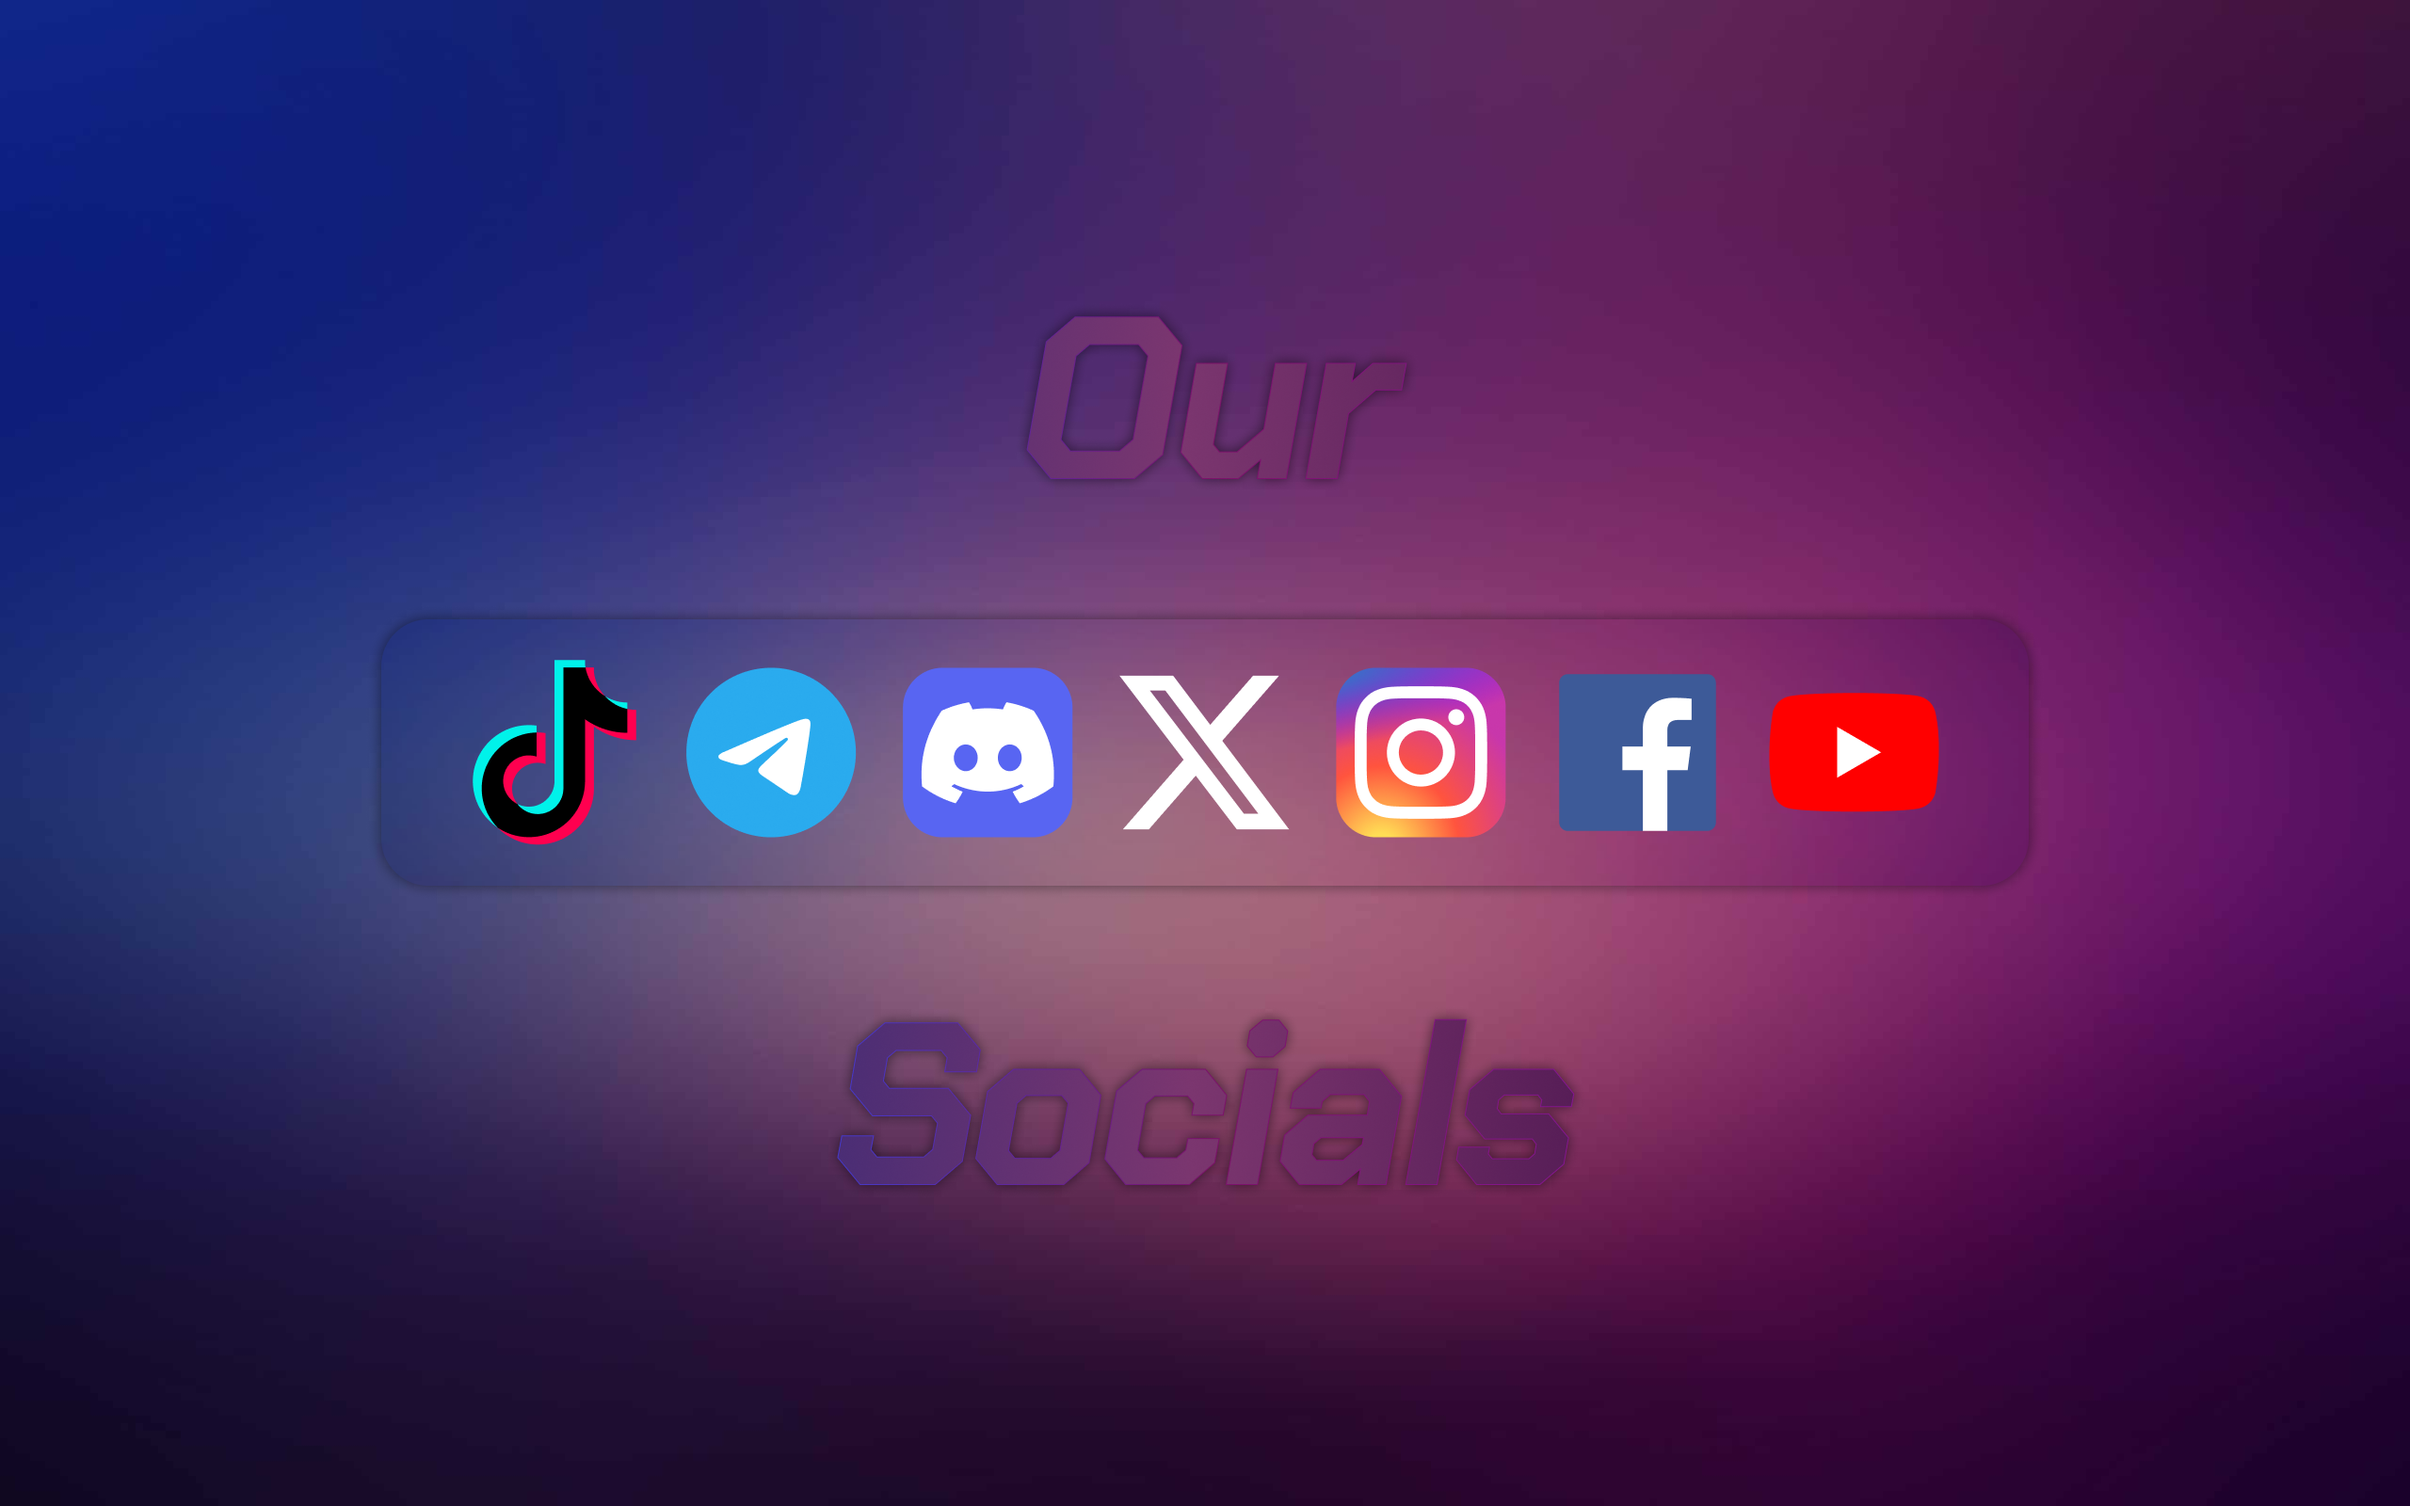
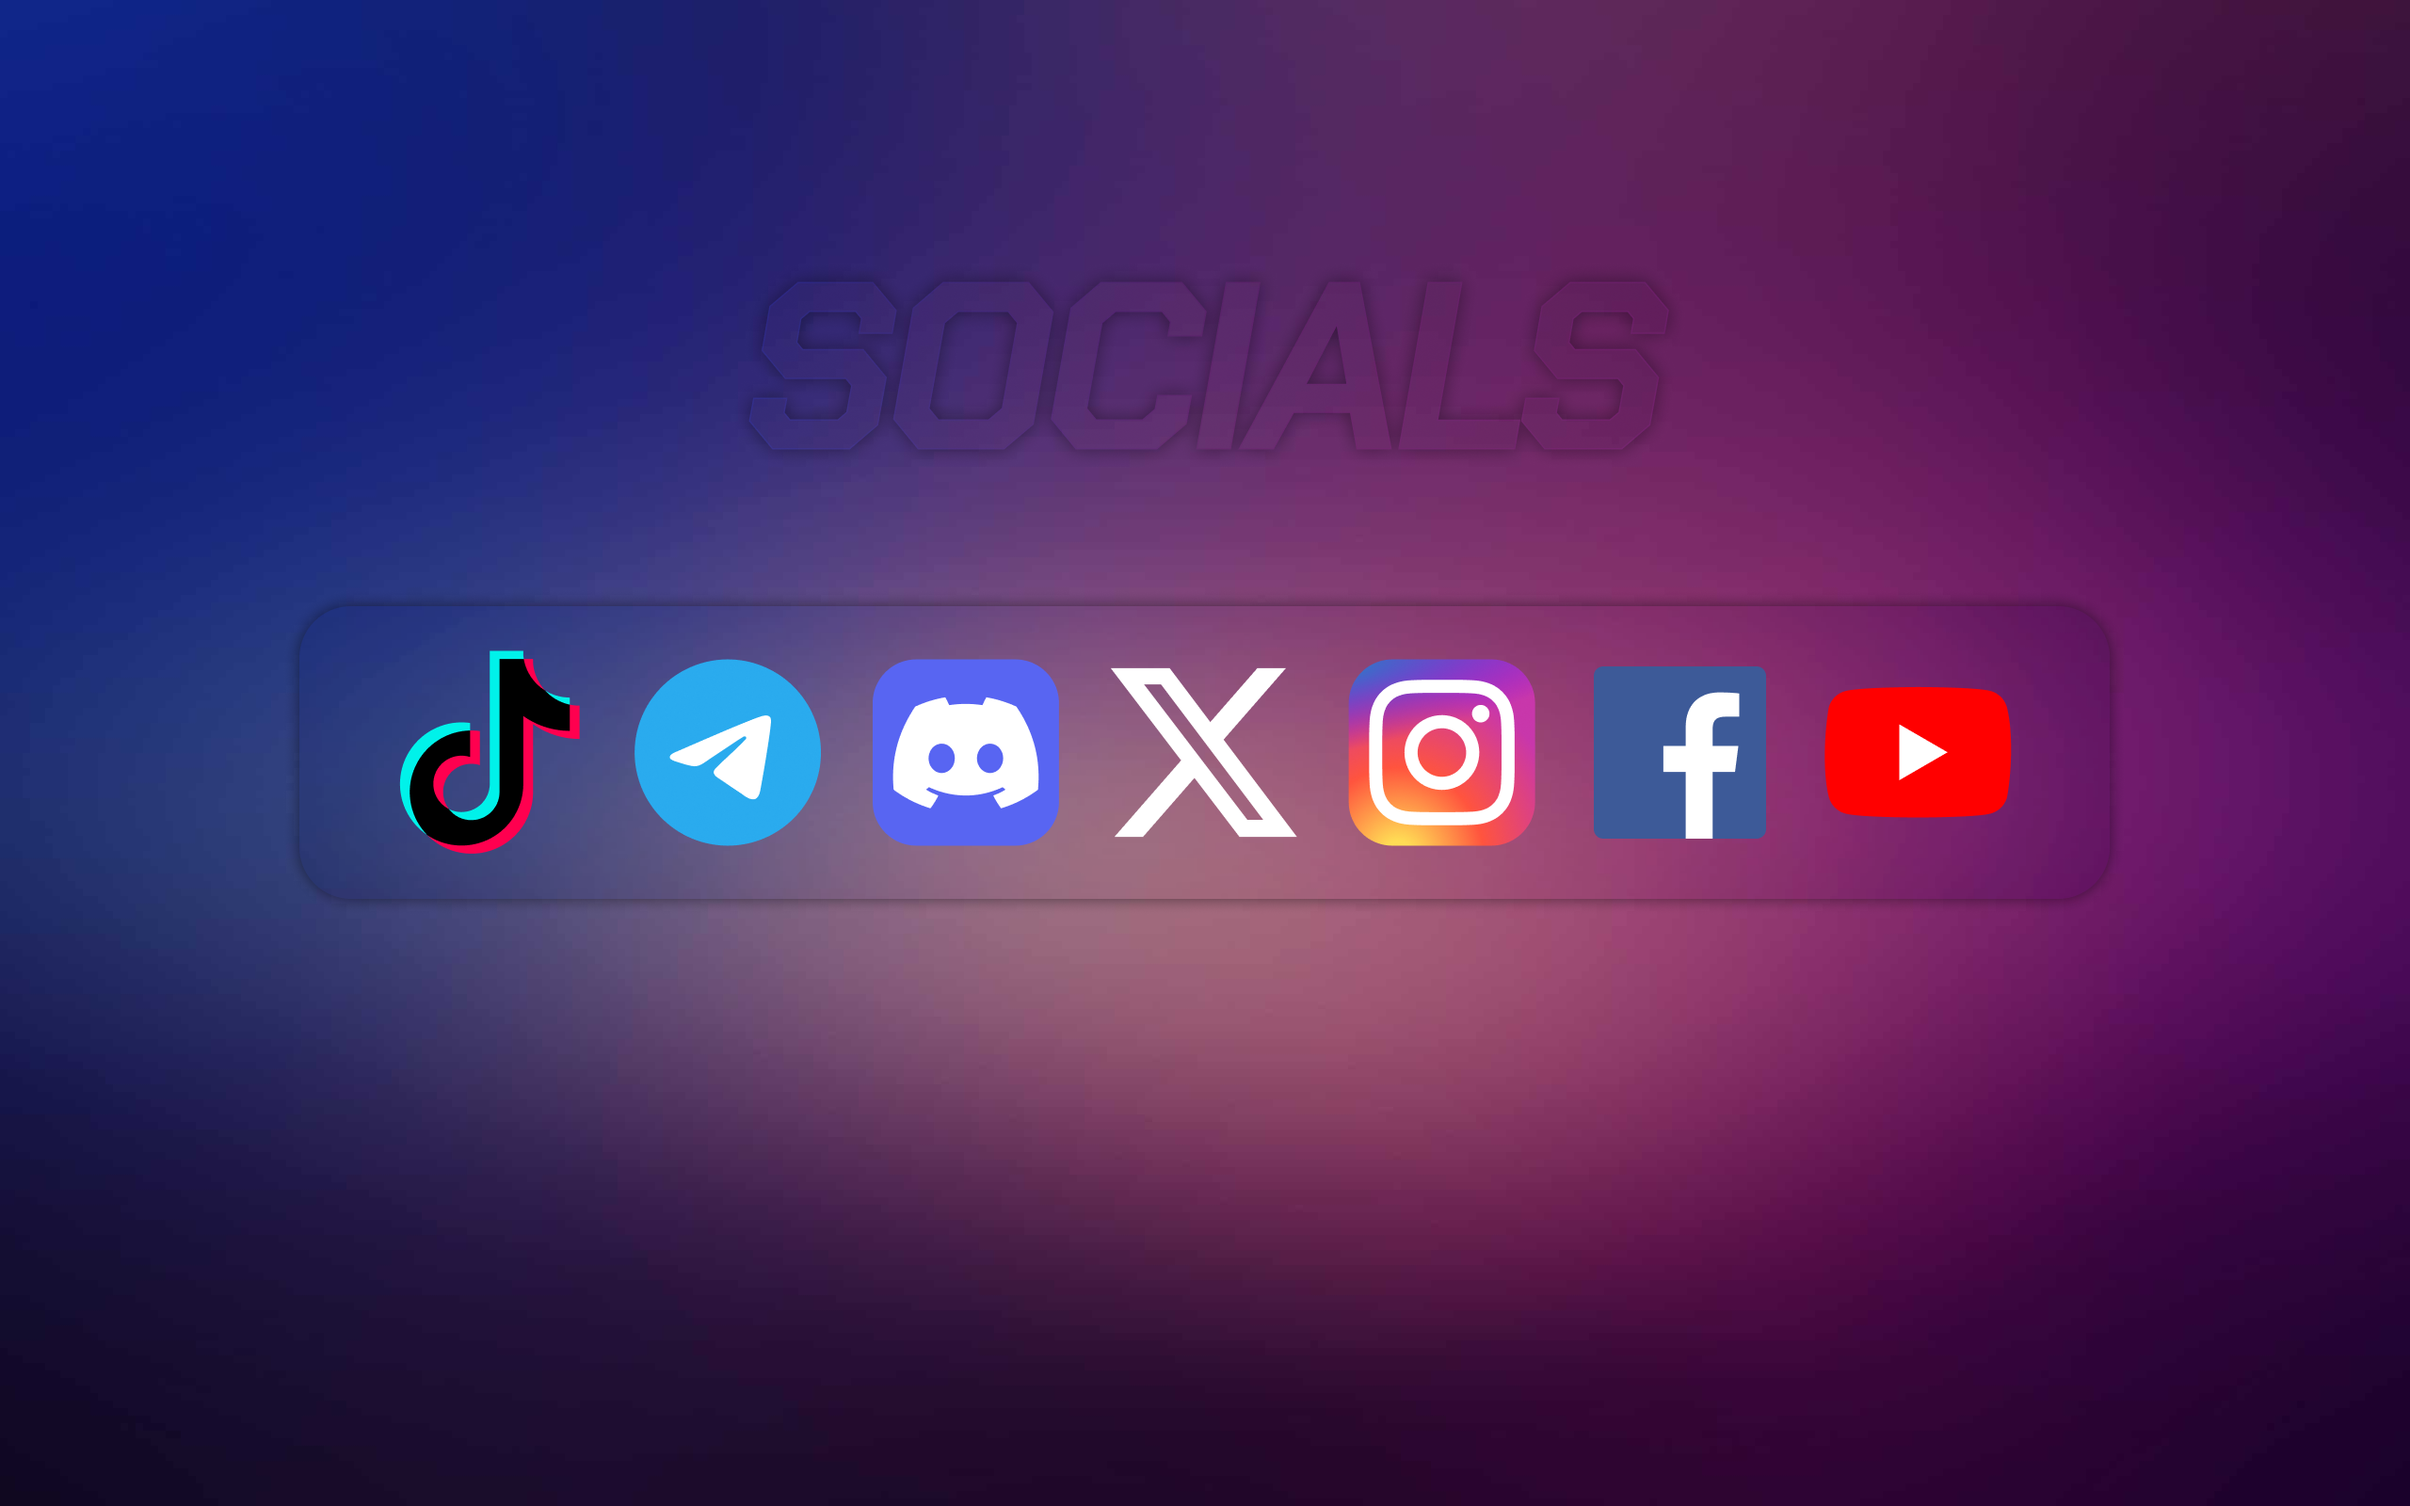
news

diff --git a/main/templates/info_center.html b/main/templates/info_center.html
@@ -55,7 +55,7 @@
                             <img src="{% static 'img/oursocials.png' %}" alt="">
                         </a>
                     </div>                            
-                    <div class="news-content" style="background-image: url('');">
+                    <div class="news-content socials-bg">
                         <p class="news-date"></p>
                         <h2 class="news-title"></h2>
                         <div class="news-buttons">
@@ -66,6 +66,8 @@
                         </div>
                     </div>
                 </div>
+                
+                
 
                 {% if news_list %}
                     {% for news in news_list %}

diff --git a/main/static/css/card.css b/main/static/css/card.css
@@ -122,6 +122,13 @@
     width: 20px; /* Устанавливаем размер иконки */
     height: 20px;
   }
+
+  .socials-bg{
+    background-image: url(/static/img/oursocialsbg.png); 
+    background-size: cover; 
+    background-repeat: no-repeat;
+    background-position: center; 
+  }
   
   
   @media (max-width: 1000px) {
